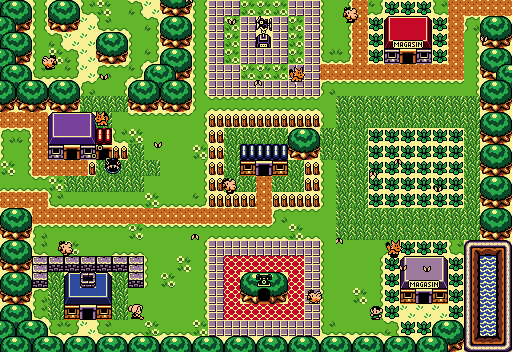
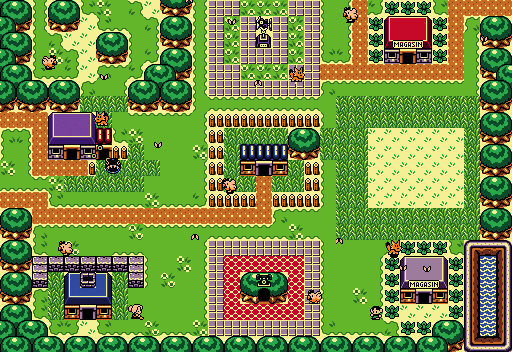
bushes

Changed region(s): [[0.7188, 0.3438, 0.9062, 0.5938]]

diff --git a/src/Game.ts b/src/Game.ts
@@ -1,7 +1,10 @@
+import {GameObject} from "./GameObjects/GameObjects";
+import {MapInstance} from "./GameObjects/MapInstance";
 import {Player} from "./GameObjects/Player";
 import {GameState} from "./GameState";
 import {Maps} from "./Maps/Maps";
-import {MapInstance} from "./GameObjects/MapInstance";
+import {Sprite} from "./Sprites/Sprite";
+import {Sprites} from "./Sprites/Sprites";
 
 export class Game {
 
@@ -29,13 +32,55 @@ export class Game {
 
         if (this.state.player === undefined) {
             this.state.player = new Player();
+            this.state.player.posX = 18;
+            this.state.player.posY = 15;
         }
 
         this.handleEvents();
 
+        // ticks
         this.state.player.tick(delta);
 
+        // collision detection
+        this.handleCollisions(this.state.player, this.state.map.tiles);
+
         return this.state;
+    }
+
+    public handleCollisions(player: Player, objects: GameObject[]) {
+        player.pushing = false;
+
+        objects.forEach((object) => {
+
+            if (player.posX + player.gameSizeX > object.posX &&
+                player.posX < object.posX + object.gameSizeX &&
+                player.posY + player.gameSizeY > object.posY &&
+                player.posY < object.posY + object.gameSizeY) {
+
+                const distX1 = object.posX - (player.posX + player.gameSizeX);
+                const distX2 = (object.posX + object.gameSizeX) - player.posX;
+                const distY1 = object.posY - (player.posY + player.gameSizeY);
+                const distY2 = (object.posY + object.gameSizeY) - player.posY;
+
+                const minX = Math.min(Math.abs(distX1), Math.abs(distX2));
+                const minY = Math.min(Math.abs(distY1), Math.abs(distY2));
+                if (minX < minY) {
+                    if (Math.abs(distX1) < Math.abs(distX2)) {
+                        player.posX += distX1;
+                    } else {
+                        player.posX += distX2;
+                    }
+                } else {
+                    if (Math.abs(distY1) < Math.abs(distY2)) {
+                        player.posY += distY1;
+                    } else {
+                        player.posY += distY2;
+                    }
+                }
+
+                player.pushing = true;
+            }
+        });
     }
 
     public handleEvents() {

diff --git a/src/GameObjects/Player.ts b/src/GameObjects/Player.ts
@@ -8,6 +8,7 @@ export class Player extends GameObject {
     public buttonLeft = false;
     public buttonRight = false;
     public direction = Direction.DOWN;
+    public pushing = false;
 
     public tick(delta: number) {
         this.moving = false;
@@ -36,11 +37,21 @@ export class Player extends GameObject {
             this.moving = true;
         }
 
-        switch (this.direction) {
-            case Direction.LEFT: this.setSprite(Sprites.linkLeft); break;
-            case Direction.RIGHT: this.setSprite(Sprites.linkRight); break;
-            case Direction.UP: this.setSprite(Sprites.linkUp); break;
-            case Direction.DOWN: this.setSprite(Sprites.linkDown); break;
+        if (this.pushing) {
+            switch (this.direction) {
+                case Direction.LEFT: this.setSprite(Sprites.linkPushingLeft); break;
+                case Direction.RIGHT: this.setSprite(Sprites.linkPushingRight); break;
+                case Direction.UP: this.setSprite(Sprites.linkPushingUp); break;
+                case Direction.DOWN: this.setSprite(Sprites.linkPushingDown); break;
+            }
+        } else {
+            switch (this.direction) {
+                case Direction.LEFT: this.setSprite(Sprites.linkLeft); break;
+                case Direction.RIGHT: this.setSprite(Sprites.linkRight); break;
+                case Direction.UP: this.setSprite(Sprites.linkUp); break;
+                case Direction.DOWN: this.setSprite(Sprites.linkDown); break;
+            }
         }
+
     }
 }

diff --git a/src/GameView.ts b/src/GameView.ts
@@ -15,7 +15,6 @@ export class GameView {
 
         this.canvas = document.getElementById("game") as HTMLCanvasElement;
         this.ctx = this.canvas.getContext("2d");
-
     }
 
     public mainLoop() {
@@ -42,7 +41,7 @@ export class GameView {
         this.ctx.save();
 
         const gScaleX = Math.min(this.canvas.width / gameState.map.map.image.width,
-            this.canvas.height / gameState.map.map.image.height) * 0.7;
+            this.canvas.height / gameState.map.map.image.height) * 0.5;
         const gScaleY = gScaleX;
 
         // translate to top-left of map
@@ -87,8 +86,8 @@ export class GameView {
             // translate to screen
             const x = gameObject.posX * map.tileWidthX;
             const y = gameObject.posY * map.tileWidthY;
-            const sY = gameObject.sprite.gameSizeX * map.tileWidthX;
-            const sX = gameObject.sprite.gameSizeY * map.tileWidthY;
+            const sY = gameObject.gameSizeX * map.tileWidthX;
+            const sX = gameObject.gameSizeY * map.tileWidthY;
             this.ctx.drawImage(gameObject.sprite.image,
                 frame.posX, frame.posY, frame.sizeX, frame.sizeY,
                 x, y, sX, sY);

diff --git a/src/Sprites/Sprites.ts b/src/Sprites/Sprites.ts
@@ -22,6 +22,22 @@ export class Sprites {
         new SpriteFrame(88, 0, 15, 16),
         new SpriteFrame(103, 0, 15, 16),
     ]);
+    public static linkPushingLeft = new Sprite(Sprites.greenLink, 3, [
+        new SpriteFrame(15, 21, 16, 16),
+        new SpriteFrame(31, 21, 16, 16),
+    ]);
+    public static linkPushingDown = new Sprite(Sprites.greenLink, 3, [
+        new SpriteFrame(50, 21, 15, 16),
+        new SpriteFrame(65, 21, 15, 16),
+    ]);
+    public static linkPushingUp = new Sprite(Sprites.greenLink, 3, [
+        new SpriteFrame(82, 21, 15, 16),
+        new SpriteFrame(99, 21, 15, 16),
+    ]);
+    public static linkPushingRight = new Sprite(Sprites.greenLink, 3, [
+        new SpriteFrame(116, 21, 15, 16),
+        new SpriteFrame(132, 21, 15, 16),
+    ]);
 
 
     public static bush = new Sprite(Sprites.overworld, 1, [new SpriteFrame(222, 171, 16, 16)]);

diff --git a/src/Maps/Maps.ts b/src/Maps/Maps.ts
@@ -12,9 +12,11 @@ export class Maps {
     public static cocolinth = new Map(Maps.imgCocolinth, 16, 16, 160, 128, []);
 
     public static city = new Map(Maps.imgCity, 16, 16, 32, 22, [
-        () => new StaticTile(Sprites.bush, 10, 10),
-        () => new StaticTile(Sprites.bush, 10, 11),
-        () => new StaticTile(Sprites.bush, 11, 11),
+        () => new StaticTile(Sprites.bush, 23, 8),
+        () => new StaticTile(Sprites.bush, 23, 9),
+        () => new StaticTile(Sprites.bush, 23, 10),
+        () => new StaticTile(Sprites.bush, 23, 11),
+        () => new StaticTile(Sprites.bush, 23, 12),
     ]);
 
     private static image(imagePath: string): HTMLImageElement {

diff --git a/game.html b/game.html
@@ -4,5 +4,5 @@
     <body>
         <script src="bundle.js"></script>
     </body>
-    <canvas width='200' height='200' id='game' ></canvas>
+    <canvas width='200' height='200' id='game' style="image-rendering: optimizeSpeed;image-rendering: -moz-crisp-edges;image-rendering: -webkit-optimize-contrast;image-rendering: -o-crisp-edges; image-rendering: crisp-edges;-ms-interpolation-mode: nearest-neighbor;}"></canvas>
 </html>

diff --git a/src/Sprites/Sprite.ts b/src/Sprites/Sprite.ts
@@ -2,6 +2,5 @@ import {SpriteFrame} from "./SpriteFrame";
 
 export class Sprite {
     constructor(public image: HTMLImageElement,
-                public speed: number, public frames: SpriteFrame[],
-                public gameSizeX = 1, public gameSizeY = 1) {}
+                public speed: number, public frames: SpriteFrame[]) {}
 }

diff --git a/src/GameObjects/GameObjects.ts b/src/GameObjects/GameObjects.ts
@@ -8,6 +8,8 @@ export class GameObject {
     public moving = false;
     public movingSpriteSpeedFactor = 2;
     public speed = 5;
+    public gameSizeX = 1;
+    public gameSizeY = 1;
 
     public setSprite(sprite: Sprite) {
         if (this.sprite !== sprite) {
